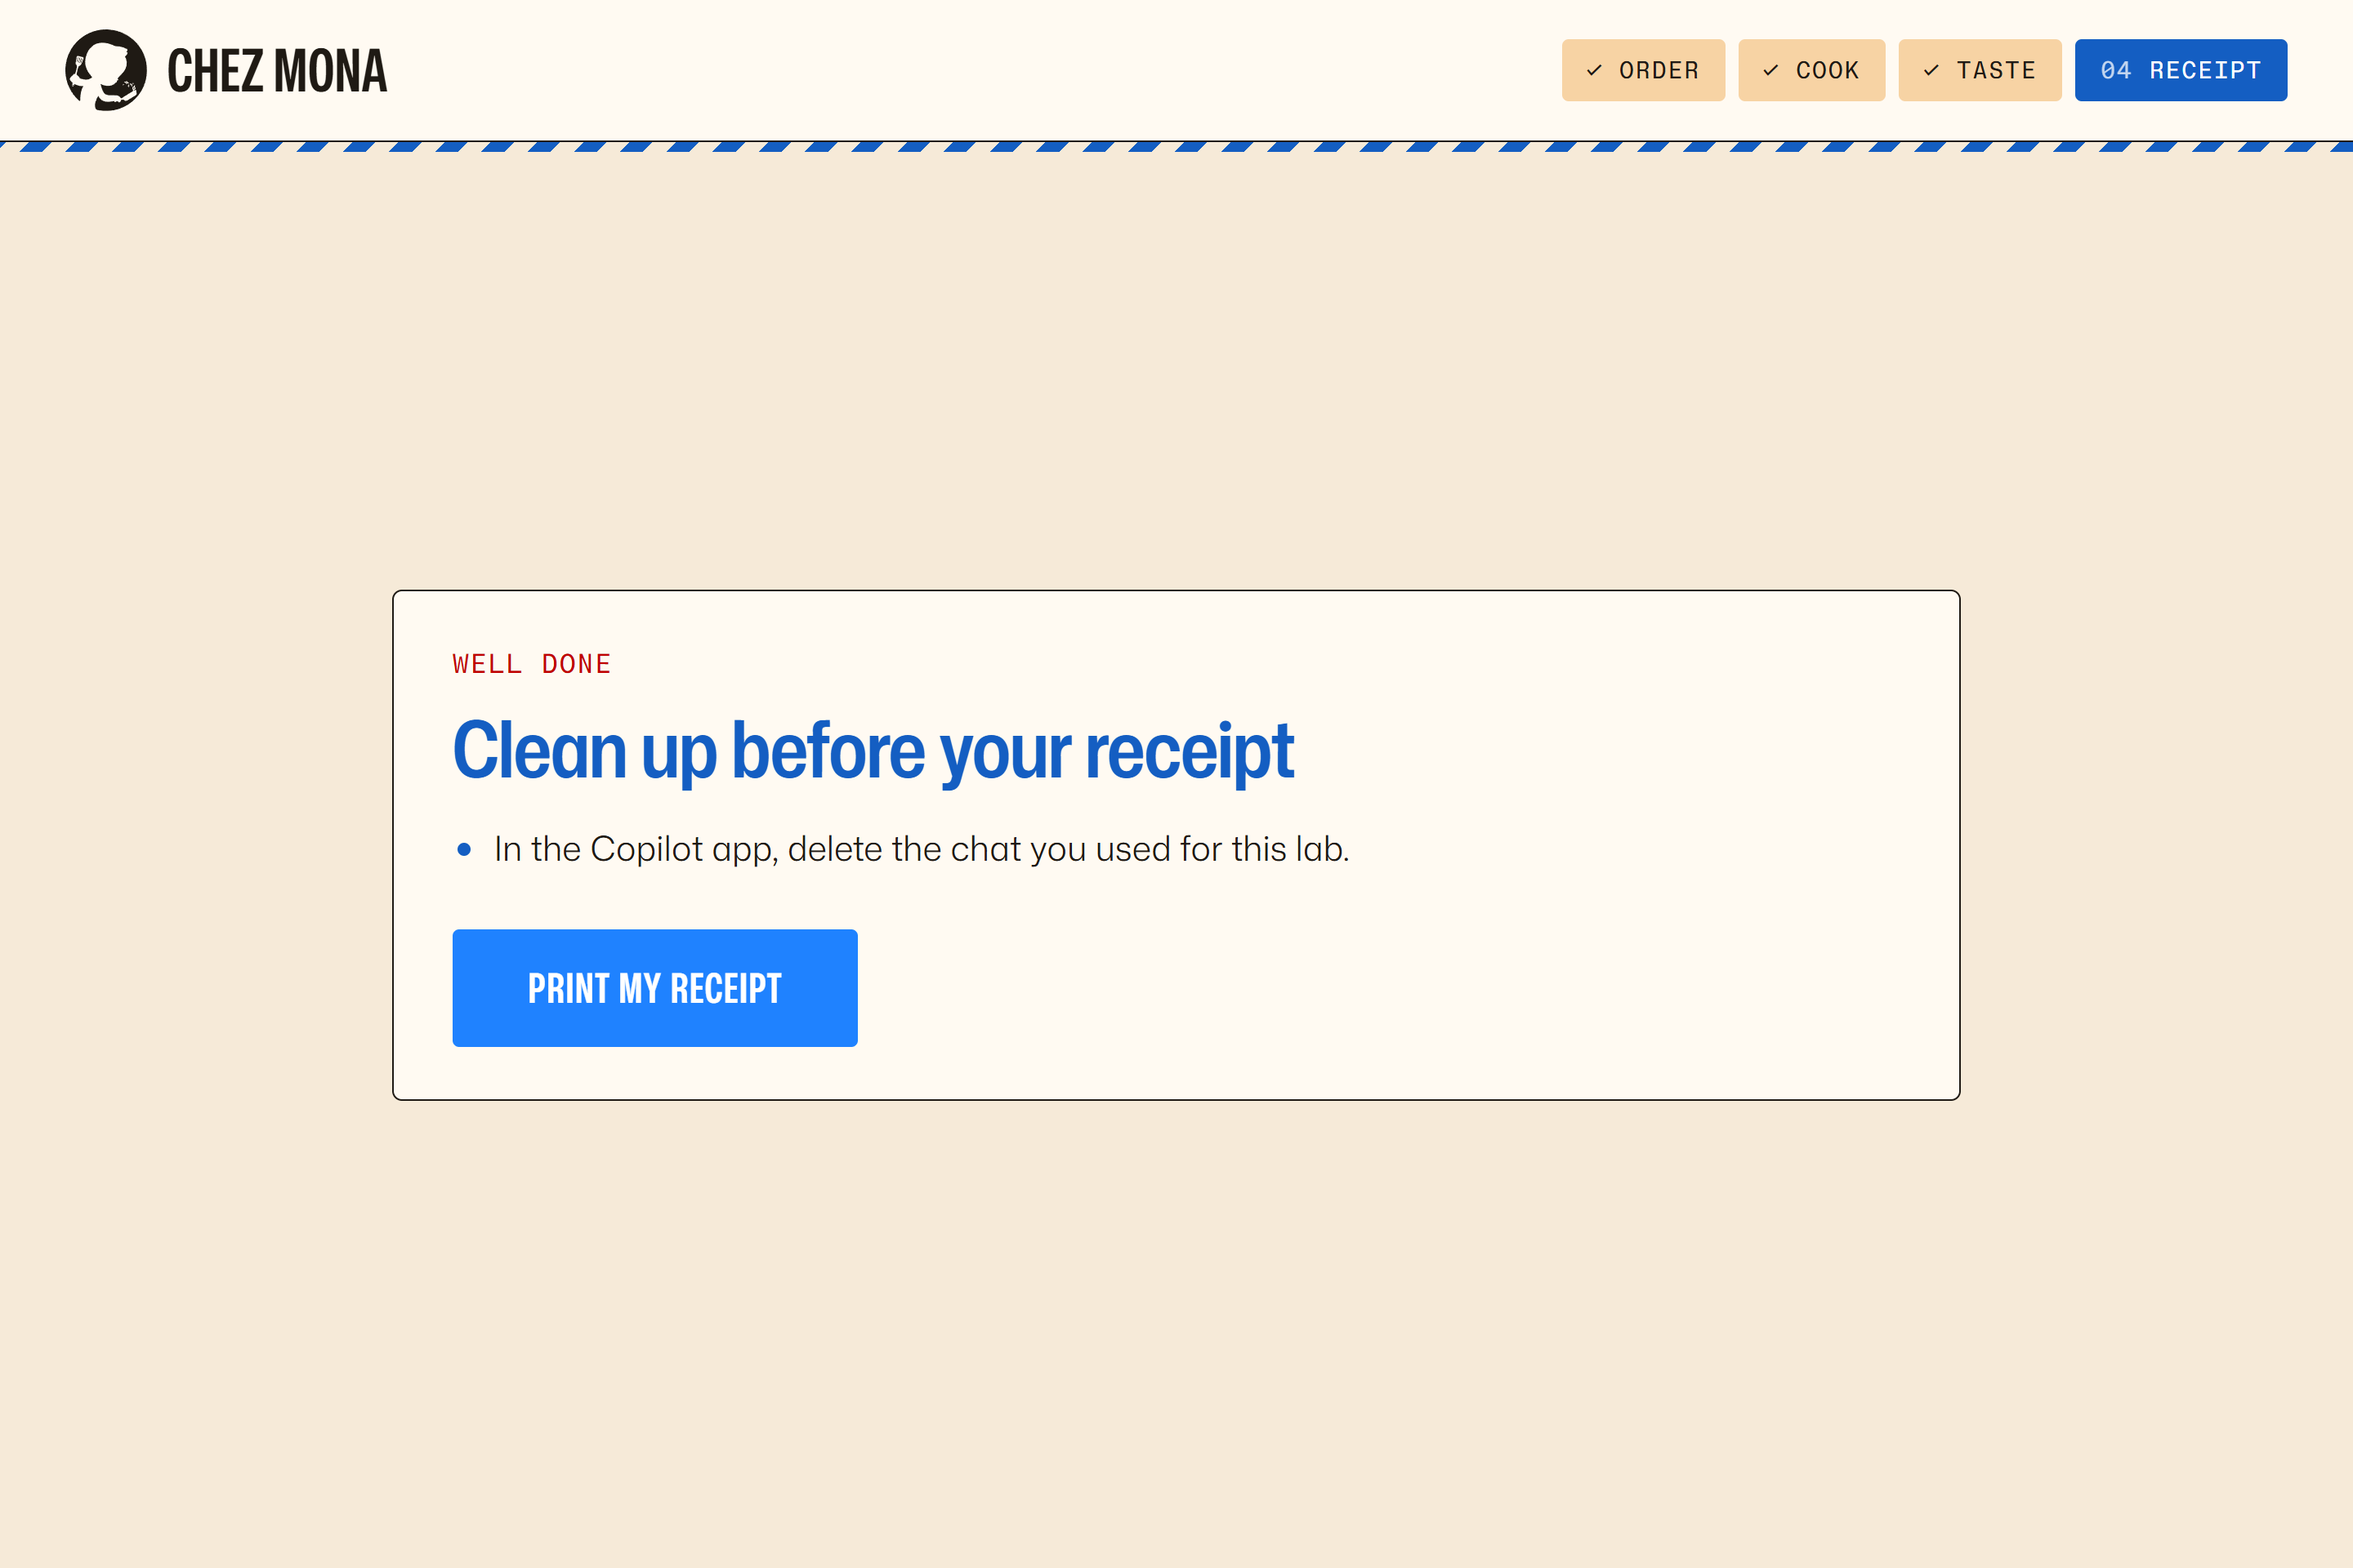
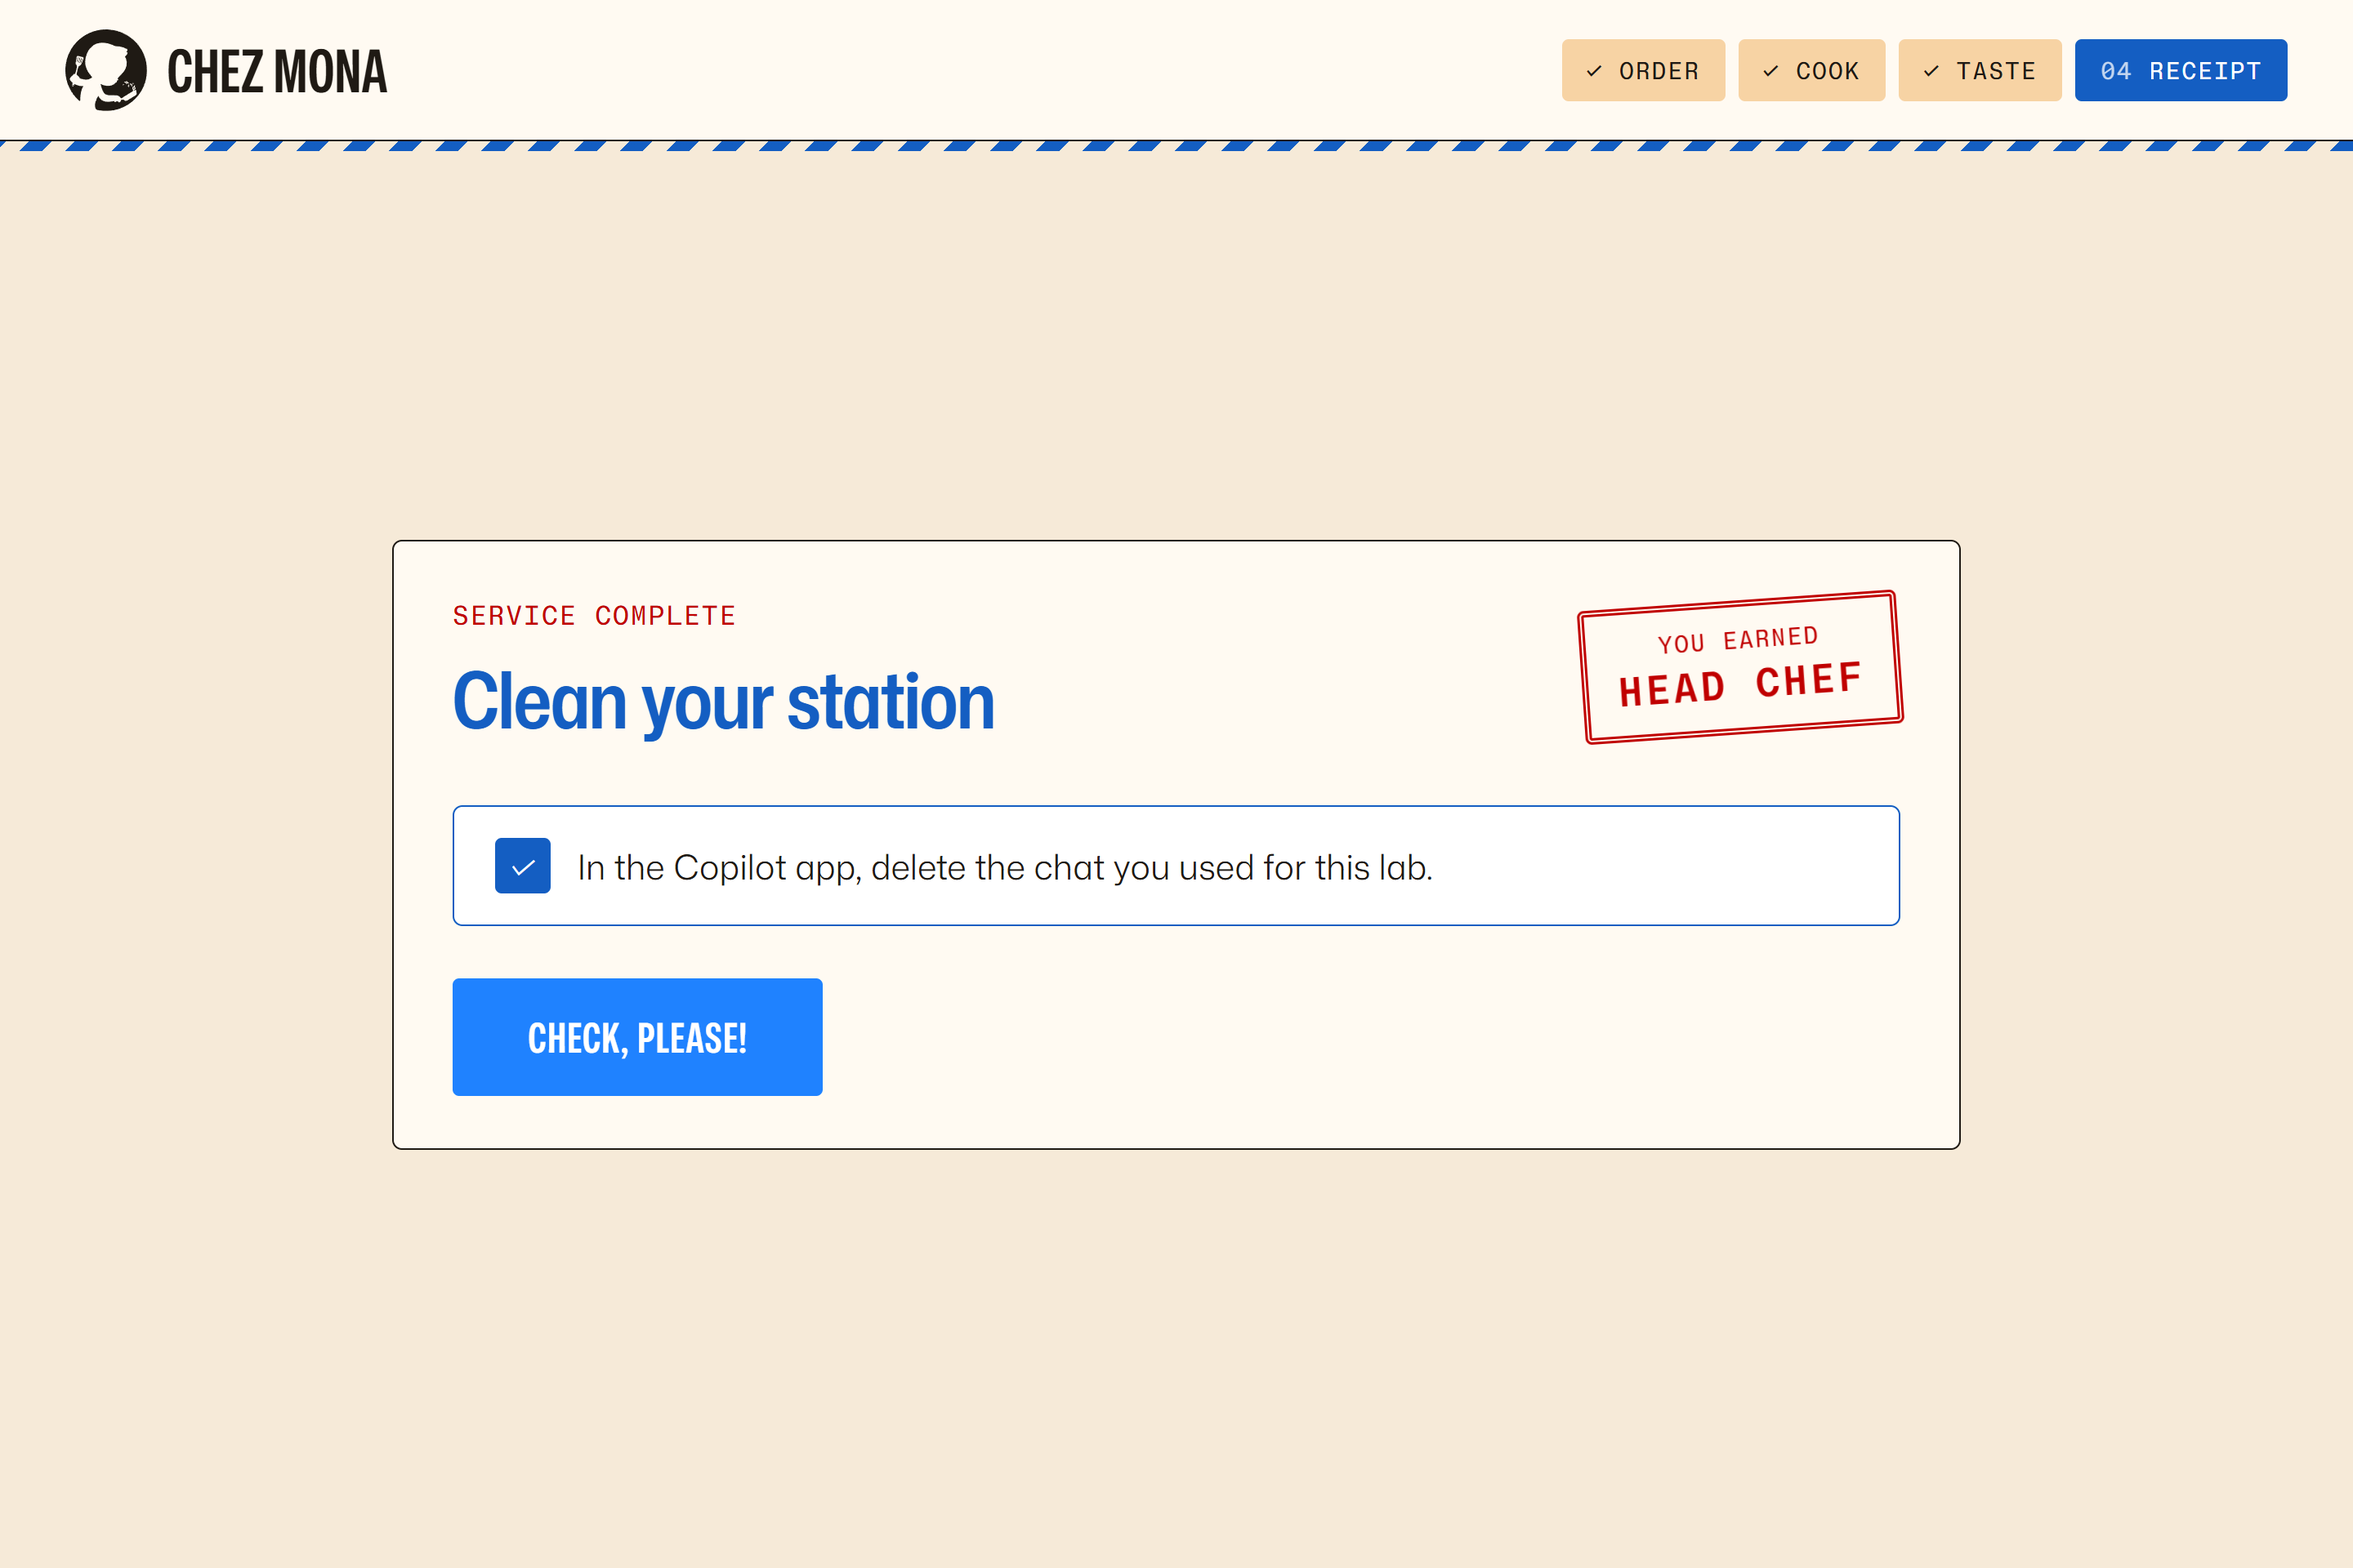
Turn the cleanup screen into a station checklist
Show wrap-up items as a checklist that gates the receipt, auto-tick the SDK cleanup, stamp the receipt rank and use kitchen copy.

Changed region(s): [[0.1562, 0.5312, 0.8438, 0.75], [0.1562, 0.3438, 0.8438, 0.5], [0.6875, 0.0312, 0.7188, 0.0625]]

diff --git a/launcher/static/app.js b/launcher/static/app.js
@@ -487,33 +487,68 @@ async function renderPrint() {
 
 // ---------- Wrap up ----------
 
+// Same thresholds as rank() in chez_mona/receipt.py, so the stamp matches the receipt.
+function rank(hints) {
+  const wrong = hints.reduce((sum, n) => sum + n, 0);
+  if (wrong === 0) return "Head chef";
+  return wrong <= 2 ? "Sous chef" : "Line cook";
+}
+
 async function renderWrap() {
   const dish = state.dish;
   const sdk = dish.start.type === "sdk";
   show("wrap", `
     <section class="card">
-      <p class="eyebrow">Well done</p>
-      <h2>Clean up before your receipt</h2>
-      <ul class="step-details">${dish.wrap_up.map((w) => `<li>${fmt(w)}</li>`).join("")}</ul>
-      <p class="muted" id="cleanup">${sdk ? "Cleaning up…" : ""}</p>
+      <div class="wrap-head">
+        <div>
+          <p class="eyebrow">Service complete</p>
+          <h2>Clean your station</h2>
+        </div>
+        <p class="stamp">You earned<strong>${rank(state.hints || [])}</strong></p>
+      </div>
+      <ul class="chores">
+        ${dish.wrap_up.map((w, i) => `<li><button class="chore" id="chore-${i}" aria-pressed="false"${sdk ? " disabled" : ""}>
+          <span>${fmt(w)}</span>${sdk ? `<span class="chore-status" id="chore-status-${i}">Wiping down…</span>` : ""}
+        </button></li>`).join("")}
+      </ul>
+      <p class="muted small" id="cleanup"></p>
       <div class="row">
-        <button class="primary" id="next">Print my receipt</button>
+        <button class="primary" id="next" disabled>Check, please!</button>
       </div>
     </section>`);
-  on("next", renderPrint);
+  const next = on("next", renderPrint);
+  const chores = dish.wrap_up.map((_, i) => document.getElementById(`chore-${i}`));
+  const tick = (chore, done) => {
+    chore.className = done ? "chore done" : "chore";
+    chore.ariaPressed = String(done);
+  };
   api("/api/complete", { dish: dish.id }).catch((error) => console.warn("Could not record completion:", error));
-  if (sdk) {
-    const cleanup = document.getElementById("cleanup");
-    try {
-      const result = await api("/api/session/end", {});
-      const notes = [];
-      if (result.window_still_open) notes.push("Please close the VS Code window.");
-      if (result.ended && !result.deleted) notes.push("Staff: the starter folder could not be deleted yet; it is removed on the next start.");
-      cleanup.textContent = notes.length ? notes.join(" ") : "All clean.";
-    } catch (error) {
-      cleanup.textContent = `Staff: cleanup failed. ${error.message}`;
-    }
+  if (!sdk) {
+    chores.forEach((chore) =>
+      chore.addEventListener("click", () => {
+        tick(chore, chore.ariaPressed !== "true");
+        next.disabled = !chores.every((c) => c.ariaPressed === "true");
+      })
+    );
+    return;
   }
+  const cleanup = document.getElementById("cleanup");
+  let status = "Spotless";
+  try {
+    const result = await api("/api/session/end", {});
+    const notes = [];
+    if (result.window_still_open) notes.push("Please close the VS Code window.");
+    if (result.ended && !result.deleted) notes.push("Staff: the starter folder could not be deleted yet; it is removed on the next start.");
+    cleanup.textContent = notes.join(" ");
+  } catch (error) {
+    status = "Ask a chef";
+    cleanup.textContent = `Staff: cleanup failed. ${error.message}`;
+  }
+  chores.forEach((chore, i) => {
+    tick(chore, status === "Spotless");
+    document.getElementById(`chore-status-${i}`).textContent = status;
+  });
+  next.disabled = false;
 }
 
 // ---------- Staff panel ----------

diff --git a/launcher/static/app.css b/launcher/static/app.css
@@ -341,6 +341,70 @@ main:has(> section.card, > section.menu) { justify-content: center; }
 }
 .hint strong { font-weight: 600; }
 
+/* Wrap up: station checklist and a rank stamp like the receipt's */
+.wrap-head { display: flex; justify-content: space-between; align-items: flex-start; gap: 24px; }
+.stamp {
+  flex: none;
+  margin: 4px 0 0;
+  padding: 10px 18px;
+  border: 4px double var(--red);
+  border-radius: var(--radius-sm);
+  color: var(--red);
+  font-family: var(--mono);
+  font-size: 0.72rem;
+  letter-spacing: 1px;
+  line-height: 1.4;
+  text-align: center;
+  text-transform: uppercase;
+  transform: rotate(-4deg);
+  animation: stamp 0.35s cubic-bezier(0.2, 0.8, 0.3, 1.3) 0.3s both;
+}
+.stamp strong { display: block; font-size: 1.2rem; font-weight: 600; letter-spacing: 2px; }
+@keyframes stamp {
+  from { opacity: 0; transform: rotate(-4deg) scale(1.8); }
+  to { opacity: 1; transform: rotate(-4deg) scale(1); }
+}
+@media (prefers-reduced-motion: reduce) { .stamp { animation: none; } }
+.chores { list-style: none; padding: 0; margin: 20px 0 0; display: grid; gap: 12px; }
+.chore {
+  display: flex;
+  align-items: center;
+  gap: 16px;
+  width: 100%;
+  text-align: left;
+  font-size: 1.05rem;
+  font-weight: 300;
+  background: var(--white);
+  border-radius: var(--radius);
+  padding: 0.9em 1.2em;
+}
+.chore:disabled { opacity: 1; }
+.chore::before {
+  content: "";
+  flex: none;
+  display: grid;
+  place-items: center;
+  width: 30px;
+  height: 30px;
+  border: 2px solid var(--text);
+  border-radius: var(--radius-sm);
+  color: var(--white);
+  font-size: 1rem;
+  transition: background 0.15s, border-color 0.15s;
+}
+.chore.done { border-color: var(--ink); }
+.chore.done::before { content: "\2713"; background: var(--ink); border-color: var(--ink); }
+.chore-status {
+  margin-left: auto;
+  font-family: var(--mono);
+  font-size: 0.75rem;
+  letter-spacing: 1px;
+  text-transform: uppercase;
+  white-space: nowrap;
+  color: var(--text-soft);
+}
+.chore.done .chore-status { color: var(--ink); }
+
 /* Print */
 .status-ok { color: var(--ink); }
 .status-error { color: var(--red); }

diff --git a/launcher/docs/run-booth.md b/launcher/docs/run-booth.md
@@ -41,8 +41,8 @@ Do these checks after you [set up a laptop](setup.md) and start it for the first
 3. Scan a fridge ticket. The station should open that dish's intro.
 4. Return to Scan, tap **Manually select a lab instead**, pick Fried Chicken and start the lab. Click **Open in VS Code**. VS Code should open `main.py`.
 5. In the Copilot app, click **+** next to **Sessions**. Click the model name in the chat box, turn on **Copilot Fusion** and check that **High** is available.
-6. Finish one Fried Chicken lab through the quiz. On the wrap up screen, check that its VS Code window closed.
-7. Click **Print my receipt**. A receipt should print and cut, and its QR code should scan with a phone.
+6. Finish one Fried Chicken lab through the quiz. On the **Clean your station** screen, check that its VS Code window closed and that the item shows **Spotless**.
+7. Click **Check, please!**. A receipt should print and cut, and its QR code should scan with a phone.
 
 ### Fridge
 

diff --git a/launcher/docs/how-it-works.md b/launcher/docs/how-it-works.md
@@ -37,7 +37,7 @@ These screenshots show the Copilot Fusion Fusilli lab. The other dishes use the 
 
 | 7. Wrap up | 8. Take the receipt |
 |---|---|
-| ![Wrap up with Print my receipt](screenshots/station-wrap-up.png) | ![Receipt on its way](screenshots/station-print.png) |
+| ![Clean your station checklist with the rank stamp](screenshots/station-wrap-up.png) | ![Receipt on its way](screenshots/station-print.png) |
 
 ### Printouts
 
